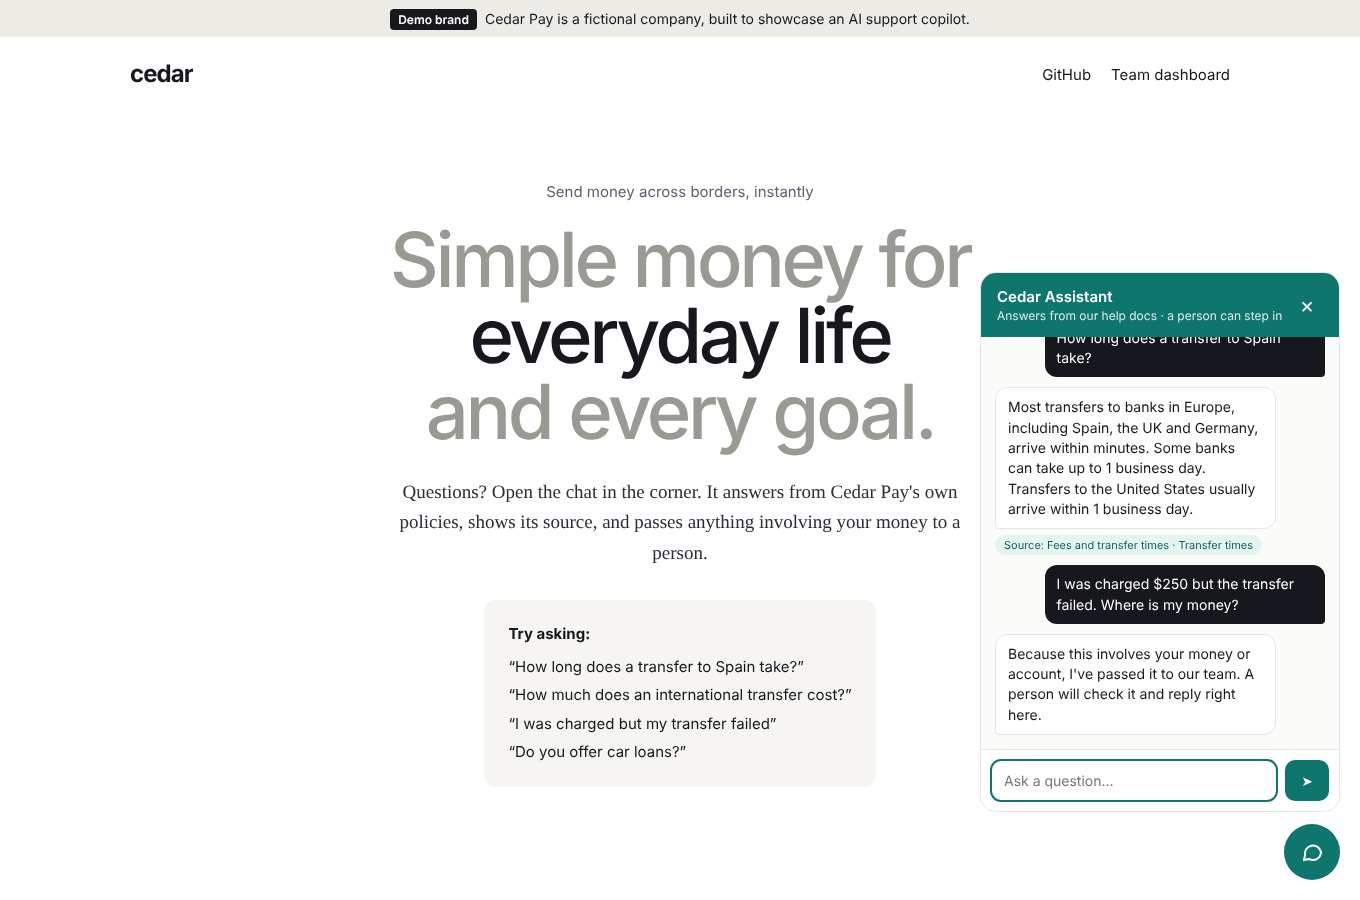
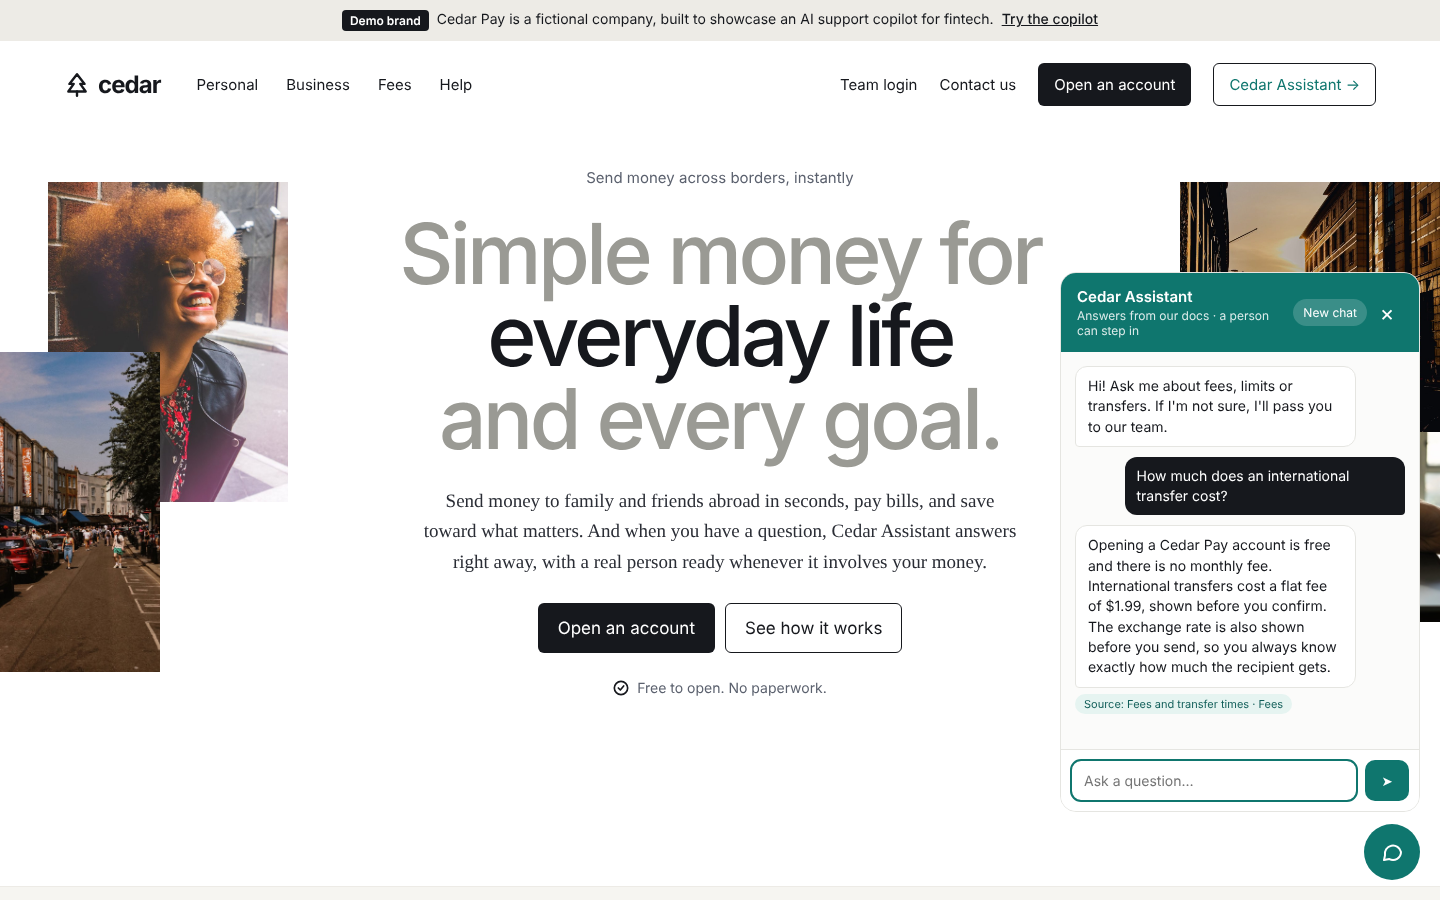
Use the designed Cedar Pay page as the live home page
- Photo hero, product tabs and features from the design, now with the
  real chat widget instead of a picture of one
- 'Cedar Assistant', 'Help', 'Support' and 'Try the copilot' open the chat
  (widget exposes window.CedarWidget.open())
- 'Team login' goes to the dashboard; GitHub link in the footer
- Photos served as static files (Nappy CC0, Pexels licence)

diff --git a/core/templates/core/home.html b/core/templates/core/home.html
@@ -1,0 +1,210 @@
+{% load static %}<!DOCTYPE html>
+<html lang="en"><head><meta charset="utf-8"><meta name="viewport" content="width=device-width, initial-scale=1">
+<title>Cedar Pay – Simple money for everyday life</title>
+<link rel="preconnect" href="https://fonts.googleapis.com">
+<link href="https://fonts.googleapis.com/css2?family=Inter:wght@400;500;600;700&family=Source+Serif+4:opsz,wght@8..60,400;8..60,500&display=swap" rel="stylesheet">
+<style>body{margin:0}a{color:#16181D}a:hover{color:#0F766E}#view-app,#view-ai{position:absolute;inset:0}</style>
+</head><body>
+
+<div style="background: #FFFFFF; font-family: Inter, system-ui, sans-serif; color: #16181D">
+
+<div style="background: #EDEBE6; padding: 10px 24px; display: flex; flex-wrap: wrap; justify-content: center; gap: 8px; font-size: 14px">
+<span style="background: #16181D; color: #FFFFFF; font-size: 12px; font-weight: 600; padding: 3px 8px; border-radius: 4px">Demo brand</span>
+<span>Cedar Pay is a fictional company, built to showcase an AI support copilot for fintech.</span>
+<a href="#" data-open-chat style="color: #16181D; font-weight: 500">Try the copilot</a>
+</div>
+
+<header style="max-width: 1360px; margin: 0 auto; padding: 22px 24px; box-sizing: border-box; display: flex; flex-wrap: wrap; gap: 20px; justify-content: space-between; align-items: center">
+<div style="display: flex; flex-wrap: wrap; align-items: center; gap: 36px">
+<div style="display: flex; align-items: center; gap: 8px">
+<svg aria-hidden="true" width="26" height="26" viewBox="0 0 24 24" fill="none" stroke="#16181D" stroke-width="2.2" stroke-linecap="round" stroke-linejoin="round"><path d="M12 2l7 9h-4l5 7H4l5-7H5z"></path><path d="M12 18v4"></path></svg>
+<span style="font-size: 24px; font-weight: 700; letter-spacing: -0.04em">cedar</span>
+</div>
+<nav aria-label="Main" style="display: flex; flex-wrap: wrap; gap: 28px; font-size: 15px">
+<a href="#product" style="text-decoration: none">Personal</a>
+<a href="#product" style="text-decoration: none">Business</a>
+<a href="#features" style="text-decoration: none">Fees</a>
+<a href="#" data-open-chat style="text-decoration: none">Help</a>
+</nav>
+</div>
+<div style="display: flex; flex-wrap: wrap; gap: 22px; align-items: center; font-size: 15px">
+<a href="{% url 'dashboard' %}" style="text-decoration: none">Team login</a>
+<a href="#" style="text-decoration: none">Contact us</a>
+<a href="#" style="background: #16181D; color: #FFFFFF; text-decoration: none; padding: 12px 16px; border-radius: 6px">Open an account</a>
+<a href="#" data-open-chat style="border: 1px solid #16181D; text-decoration: none; padding: 11px 15px; border-radius: 6px">Cedar Assistant →</a>
+</div>
+</header>
+
+<section style="position: relative; border-bottom: 1px solid #EDEBE6">
+<div style="max-width: 1440px; margin: 0 auto; padding: 40px 0 190px; display: flex; flex-wrap: wrap; gap: 24px; align-items: center">
+
+<div style="flex: 1 1 260px; display: flex; flex-direction: column; gap: 0; position: relative; min-height: 500px">
+<img src="{% static 'site/img/photo1.jpg' %}" alt="A smiling woman with an afro and glasses on a city street" style="margin-left: 48px; width: 240px; height: 320px; object-fit: cover; object-position: 56% 30%; display: block">
+<img src="{% static 'site/img/photo2.jpg' %}" alt="A busy market street with shop awnings and shoppers on a sunny day" style="margin-top: -150px; width: 160px; height: 320px; object-fit: cover; object-position: 45% 55%; display: block; position: relative">
+</div>
+
+<div style="flex: 3 1 560px; min-width: 0; display: flex; flex-direction: column; align-items: center; text-align: center; gap: 26px; padding: 0 24px">
+<span style="font-size: 15px; color: #5B616E">Send money across borders, instantly</span>
+<h1 style="margin: 0; font-size: 84px; line-height: 0.98; letter-spacing: -0.045em; font-weight: 500">
+<span style="color: #9A9A94; display: block">Simple money for</span>
+<span style="color: #16181D; display: block">everyday life</span>
+<span style="color: #9A9A94; display: block">and every goal.</span>
+</h1>
+<p style="margin: 0; max-width: 600px; font-family: 'Source Serif 4', Georgia, serif; font-size: 19px; line-height: 1.6; color: #2A2D35">Send money to family and friends abroad in seconds, pay bills, and save toward what matters. And when you have a question, Cedar Assistant answers right away, with a real person ready whenever it involves your money.</p>
+<div style="display: flex; flex-wrap: wrap; gap: 10px; justify-content: center">
+<a href="#" style="background: #16181D; color: #FFFFFF; text-decoration: none; padding: 15px 20px; border-radius: 6px; font-size: 17px">Open an account</a>
+<a href="#product" style="border: 1px solid #16181D; text-decoration: none; padding: 14px 19px; border-radius: 6px; font-size: 17px">See how it works</a>
+</div>
+<span style="display: flex; align-items: center; gap: 8px; font-size: 14px; color: #5B616E"><svg aria-hidden="true" width="16" height="16" viewBox="0 0 24 24" fill="none" stroke="#16181D" stroke-width="2.5" stroke-linecap="round" stroke-linejoin="round"><circle cx="12" cy="12" r="10"></circle><path d="M8 12l3 3 5-6"></path></svg>Free to open. No paperwork.</span>
+</div>
+
+<div style="flex: 1 1 260px; display: flex; flex-direction: column; align-items: flex-end; min-height: 500px">
+<img src="{% static 'site/img/photo3.jpg' %}" alt="A city street at golden hour with a red double-decker bus" style="width: 260px; height: 250px; object-fit: cover; object-position: 50% 50%; display: block">
+<img src="{% static 'site/img/photo4.jpg' %}" alt="A hand holding a bank card over a laptop by a sunlit window" style="width: 170px; height: 190px; object-fit: cover; object-position: 60% 50%; display: block">
+</div>
+</div>
+
+</section>
+
+<section id="product" style="background: #F6F5F1">
+<div style="max-width: 1280px; margin: 0 auto; padding: 88px 24px; box-sizing: border-box; display: flex; flex-direction: column; gap: 32px">
+<h2 style="margin: 0; font-size: 34px; font-weight: 500; letter-spacing: -0.03em"><span style="color: #9A9A94">One app,</span> everything your money needs</h2>
+<div>
+<div role="tablist" aria-label="Product views" style="display: grid; grid-template-columns: repeat(2, minmax(0, 1fr)); border: 1px solid #DCDBD5; border-bottom: none; background: #FFFFFF">
+<button type="button" role="tab" id="tab-app" aria-selected="true">The Cedar app</button>
+<button type="button" role="tab" id="tab-ai" aria-selected="false">Cedar Assistant</button>
+</div>
+<div style="position: relative; height: 640px; overflow: hidden; border: 1px solid #DCDBD5; background: #C9A77C">
+<img src="{% static 'site/img/wall.jpg' %}" alt="" aria-hidden="true" style="position: absolute; inset: 0; width: 100%; height: 100%; object-fit: cover; display: block">
+
+<div id="view-app">
+<div role="img" aria-label="The Cedar Pay web app: balance, recent activity and a send money form" style="position: absolute; left: 5%; top: 48px; width: 66%; height: 560px; background: rgba(255,255,255,0.9); border: 1px solid rgba(255,255,255,0.7); border-radius: 14px; overflow: hidden; display: flex; font-size: 12px; color: #16181D">
+<div style="width: 52px; background: rgba(240,238,232,0.9); display: flex; flex-direction: column; align-items: center; gap: 18px; padding-top: 18px">
+<svg aria-hidden="true" width="20" height="20" viewBox="0 0 24 24" fill="none" stroke="#16181D" stroke-width="2.2" stroke-linecap="round" stroke-linejoin="round"><path d="M12 2l7 9h-4l5 7H4l5-7H5z"></path><path d="M12 18v4"></path></svg>
+<div style="width: 18px; height: 18px; border-radius: 5px; background: #16181D"></div>
+<div style="width: 18px; height: 18px; border-radius: 5px; background: #C9C7BF"></div>
+<div style="width: 18px; height: 18px; border-radius: 5px; background: #C9C7BF"></div>
+<div style="width: 18px; height: 18px; border-radius: 5px; background: #C9C7BF"></div>
+</div>
+<div style="flex: 1; padding: 22px; display: flex; flex-direction: column; gap: 16px; min-width: 0">
+<div style="display: flex; justify-content: space-between; align-items: center"><span style="font-size: 15px; font-weight: 600">Good morning, Sam</span><span style="color: #5B616E">Wed 12 Nov</span></div>
+<div style="display: grid; grid-template-columns: repeat(3, minmax(0, 1fr)); gap: 10px">
+<div style="background: #16181D; color: #FFFFFF; border-radius: 10px; padding: 14px; display: flex; flex-direction: column; gap: 4px"><span style="color: #B4B2A9">USD balance</span><span style="font-size: 20px; font-weight: 700">$2,485.00</span></div>
+<div style="background: #FFFFFF; border: 1px solid #E5E5E1; border-radius: 10px; padding: 14px; display: flex; flex-direction: column; gap: 4px"><span style="color: #5B616E">EUR balance</span><span style="font-size: 20px; font-weight: 700">€640.20</span></div>
+<div style="background: #FFFFFF; border: 1px solid #E5E5E1; border-radius: 10px; padding: 14px; display: flex; flex-direction: column; gap: 4px"><span style="color: #5B616E">Savings goal</span><span style="font-size: 20px; font-weight: 700">$1,200</span><div style="height: 5px; background: #EEF0F3; border-radius: 999px"><div style="width: 48%; height: 5px; background: #0F766E; border-radius: 999px"></div></div></div>
+</div>
+<div style="font-weight: 600; font-size: 13px; padding-top: 4px">Recent activity</div>
+<div style="display: flex; flex-direction: column; background: #FFFFFF; border: 1px solid #E5E5E1; border-radius: 10px">
+<div style="display: flex; justify-content: space-between; align-items: center; padding: 11px 14px; border-bottom: 1px solid #F0F0EC"><div style="display: flex; gap: 10px; align-items: center"><span style="width: 26px; height: 26px; border-radius: 50%; background: #E7EFEC; color: #115E59; font-weight: 700; font-size: 11px; display: flex; align-items: center; justify-content: center">ML</span><div style="display: flex; flex-direction: column"><span style="font-weight: 600">Maria Lopez · Spain</span><span style="color: #5B616E">Sent · 9:41am</span></div></div><span style="font-weight: 600">−$250.00</span></div>
+<div style="display: flex; justify-content: space-between; align-items: center; padding: 11px 14px; border-bottom: 1px solid #F0F0EC"><div style="display: flex; gap: 10px; align-items: center"><span style="width: 26px; height: 26px; border-radius: 50%; background: #FAEEDA; color: #633806; font-weight: 700; font-size: 11px; display: flex; align-items: center; justify-content: center">EB</span><div style="display: flex; flex-direction: column"><span style="font-weight: 600">Electricity bill</span><span style="color: #5B616E">Bills · Yesterday</span></div></div><span style="font-weight: 600">−$100.00</span></div>
+<div style="display: flex; justify-content: space-between; align-items: center; padding: 11px 14px; border-bottom: 1px solid #F0F0EC"><div style="display: flex; gap: 10px; align-items: center"><span style="width: 26px; height: 26px; border-radius: 50%; background: #EEEDFE; color: #3C3489; font-weight: 700; font-size: 11px; display: flex; align-items: center; justify-content: center">JO</span><div style="display: flex; flex-direction: column"><span style="font-weight: 600">James Owen · UK</span><span style="color: #5B616E">Received · Mon</span></div></div><span style="font-weight: 600; color: #0F766E">+£180.00</span></div>
+<div style="display: flex; justify-content: space-between; align-items: center; padding: 11px 14px"><div style="display: flex; gap: 10px; align-items: center"><span style="width: 26px; height: 26px; border-radius: 50%; background: #F1EFE8; color: #444441; font-weight: 700; font-size: 11px; display: flex; align-items: center; justify-content: center">SA</span><div style="display: flex; flex-direction: column"><span style="font-weight: 600">Salary</span><span style="color: #5B616E">Received · 1 Nov</span></div></div><span style="font-weight: 600; color: #0F766E">+$3,500.00</span></div>
+</div>
+</div>
+<div style="width: 34%; border-left: 1px solid #E5E5E1; padding: 22px; display: flex; flex-direction: column; gap: 12px; background: rgba(251,251,250,0.9)">
+<span style="font-size: 15px; font-weight: 600">Send money</span>
+<div style="display: flex; flex-direction: column; gap: 4px"><span style="color: #5B616E">To</span><div style="border: 1px solid #DCDBD5; border-radius: 8px; padding: 10px; background: #FFFFFF; font-weight: 500">Maria Lopez · ES</div></div>
+<div style="display: flex; flex-direction: column; gap: 4px"><span style="color: #5B616E">You send</span><div style="border: 1px solid #DCDBD5; border-radius: 8px; padding: 10px; background: #FFFFFF; display: flex; justify-content: space-between"><span style="font-weight: 600; font-size: 15px">250.00</span><span>USD</span></div></div>
+<div style="display: flex; flex-direction: column; gap: 4px"><span style="color: #5B616E">Maria gets</span><div style="border: 1px solid #DCDBD5; border-radius: 8px; padding: 10px; background: #FFFFFF; display: flex; justify-content: space-between"><span style="font-weight: 600; font-size: 15px">[AMOUNT]</span><span>EUR</span></div></div>
+<div style="display: flex; justify-content: space-between; color: #5B616E"><span>Fee</span><span>[FEE]</span></div>
+<div style="display: flex; justify-content: space-between; color: #5B616E"><span>Arrives</span><span>In minutes</span></div>
+<div style="margin-top: auto; background: #16181D; color: #FFFFFF; border-radius: 8px; padding: 12px; text-align: center; font-weight: 500">Send $250.00</div>
+</div>
+</div>
+<div role="img" aria-label="Cedar Assistant chat answering a question about transfer times" style="position: absolute; right: 4%; top: 120px; width: 330px; height: 500px; background: #FFFFFF; border-radius: 16px; overflow: hidden; display: flex; flex-direction: column; font-size: 13px; color: #16181D">
+<div style="display: flex; justify-content: space-between; align-items: center; padding: 14px 16px; border-bottom: 1px solid #F0F0EC"><div style="display: flex; gap: 8px; align-items: center"><svg aria-hidden="true" width="18" height="18" viewBox="0 0 24 24" fill="none" stroke="#16181D" stroke-width="2.2" stroke-linecap="round" stroke-linejoin="round"><path d="M12 2l7 9h-4l5 7H4l5-7H5z"></path><path d="M12 18v4"></path></svg><span style="font-weight: 600">Cedar Assistant</span></div><span style="color: #5B616E">×</span></div>
+<div style="flex: 1; padding: 14px; display: flex; flex-direction: column; gap: 10px">
+<div style="align-self: flex-start; background: #F3F2EE; border-radius: 12px; padding: 10px 12px">Hi Sam! How can I help?</div>
+<div style="align-self: flex-end; background: #16181D; color: #FFFFFF; border-radius: 12px; padding: 10px 12px; max-width: 80%; line-height: 1.45">How long does a transfer to Spain take?</div>
+<div style="align-self: flex-start; background: #F3F2EE; border-radius: 12px; padding: 10px 12px; max-width: 85%; line-height: 1.45">Most transfers to Spain arrive within minutes. Some banks take up to 1 business day.</div>
+<span style="align-self: flex-start; background: #E6F4F1; color: #115E59; border-radius: 999px; padding: 4px 10px; font-size: 11px; font-weight: 500">Source: Transfer times · §1</span>
+<div style="align-self: flex-end; background: #16181D; color: #FFFFFF; border-radius: 12px; padding: 10px 12px">Perfect, thanks!</div>
+</div>
+<div style="margin: 12px; border: 1px solid #DCDBD5; border-radius: 10px; padding: 11px 12px; color: #5B616E">Ask a question…</div>
+</div>
+</div>
+
+<div id="view-ai" style="display:none">
+<div role="img" aria-label="The support team's inbox with an AI-drafted reply" style="position: absolute; left: 5%; top: 48px; width: 70%; height: 560px; background: rgba(255,255,255,0.9); border-radius: 14px; overflow: hidden; display: flex; font-size: 12px; color: #16181D">
+<div style="width: 30%; border-right: 1px solid #E5E5E1; display: flex; flex-direction: column">
+<div style="padding: 16px; font-weight: 600; font-size: 14px; border-bottom: 1px solid #F0F0EC">Your inbox · 4 open</div>
+<div style="padding: 12px 16px; background: #F3F2EE; display: flex; flex-direction: column; gap: 3px"><span style="font-weight: 600">Sam Carter</span><span style="color: #5B616E">Charged but transfer failed · 2m</span></div>
+<div style="padding: 12px 16px; display: flex; flex-direction: column; gap: 3px; border-bottom: 1px solid #F0F0EC"><span style="font-weight: 600">Lena Fischer</span><span style="color: #5B616E">Card declined abroad · 9m</span></div>
+<div style="padding: 12px 16px; display: flex; flex-direction: column; gap: 3px; border-bottom: 1px solid #F0F0EC"><span style="font-weight: 600">Carlos Ruiz</span><span style="color: #5B616E">New device login · 24m</span></div>
+<div style="padding: 12px 16px; display: flex; flex-direction: column; gap: 3px"><span style="font-weight: 600">Priya Shah</span><span style="color: #5B616E">Raise my limit · 1h</span></div>
+</div>
+<div style="flex: 1; padding: 18px; display: flex; flex-direction: column; gap: 10px; min-width: 0">
+<span style="font-size: 14px; font-weight: 600">Sam Carter</span>
+<div style="background: #FFFFFF; border: 1px solid #E5E5E1; border-radius: 10px; padding: 10px 12px; line-height: 1.5">I was charged $250 but the transfer to Spain failed. Where is my money?</div>
+<div style="background: #F3F2EE; border-radius: 10px; padding: 10px 12px; line-height: 1.5">Sorry about this. Because it involves your money, I'm getting someone from the team for you.</div>
+<span style="color: #5B616E; font-size: 11px">Cedar Assistant handed this to the team · confidence 0.41</span>
+<div style="margin-top: auto; border: 1px solid #DCDBD5; border-radius: 10px; padding: 12px; color: #5B616E; background: #FFFFFF">Reply…</div>
+</div>
+<div style="width: 32%; border-left: 1px solid #E5E5E1; padding: 18px; display: flex; flex-direction: column; gap: 10px; background: rgba(251,251,250,0.9)">
+<span style="font-size: 14px; font-weight: 600">Copilot</span>
+<span style="color: #5B616E">What happened</span>
+<span style="line-height: 1.5">The transfer was rejected by the receiving bank. Failed transfers are refunded within 24 hours.</span>
+<span style="color: #5B616E; padding-top: 6px">Draft reply</span>
+<div style="background: #FFFFFF; border: 1px solid #E5E5E1; border-radius: 10px; padding: 10px; line-height: 1.5">Hi Sam, sorry for the worry. Maria's bank rejected the transfer, so your $250 will be back in your wallet within 24 hours. I'll confirm once it's done.</div>
+<span style="align-self: flex-start; background: #E6F4F1; color: #115E59; border-radius: 999px; padding: 4px 10px; font-size: 11px; font-weight: 500">2 sources · Reversals policy</span>
+<div style="margin-top: auto; background: #16181D; color: #FFFFFF; border-radius: 8px; padding: 11px; text-align: center; font-weight: 500">Approve and send</div>
+</div>
+</div>
+<div role="img" aria-label="The customer's chat showing the handoff to a person" style="position: absolute; right: 4%; top: 150px; width: 300px; background: #FFFFFF; border-radius: 16px; overflow: hidden; display: flex; flex-direction: column; font-size: 13px; color: #16181D">
+<div style="display: flex; gap: 8px; align-items: center; padding: 14px 16px; border-bottom: 1px solid #F0F0EC"><svg aria-hidden="true" width="18" height="18" viewBox="0 0 24 24" fill="none" stroke="#16181D" stroke-width="2.2" stroke-linecap="round" stroke-linejoin="round"><path d="M12 2l7 9h-4l5 7H4l5-7H5z"></path><path d="M12 18v4"></path></svg><span style="font-weight: 600">Cedar Assistant</span></div>
+<div style="padding: 14px; display: flex; flex-direction: column; gap: 10px">
+<div style="align-self: flex-end; background: #16181D; color: #FFFFFF; border-radius: 12px; padding: 10px 12px; max-width: 85%; line-height: 1.45">I was charged $250 but the transfer failed. Where is my money?</div>
+<div style="align-self: flex-start; background: #F3F2EE; border-radius: 12px; padding: 10px 12px; max-width: 85%; line-height: 1.45">Because it involves your money, I'm getting someone from the team for you.</div>
+<span style="align-self: center; color: #5B616E; font-size: 11px">Tom from Cedar joined the chat</span>
+</div>
+<div style="margin: 0 12px 12px; border: 1px solid #DCDBD5; border-radius: 10px; padding: 11px 12px; color: #5B616E">Ask a question…</div>
+</div>
+</div>
+</div>
+</div>
+</div>
+</section>
+
+<section id="features">
+<div style="max-width: 1200px; margin: 0 auto; padding: 88px 24px; box-sizing: border-box; display: grid; grid-template-columns: repeat(auto-fit, minmax(240px, 1fr)); gap: 40px">
+<div style="display: flex; flex-direction: column; gap: 10px; border-top: 1px solid #16181D; padding-top: 18px"><h3 style="margin: 0; font-size: 20px; font-weight: 500">Instant transfers</h3><p style="margin: 0; font-family: 'Source Serif 4', Georgia, serif; font-size: 17px; line-height: 1.6; color: #3F4450">Money arrives in seconds, with low, clear fees shown before you send.</p></div>
+<div style="display: flex; flex-direction: column; gap: 10px; border-top: 1px solid #16181D; padding-top: 18px"><h3 style="margin: 0; font-size: 20px; font-weight: 500">Savings goals</h3><p style="margin: 0; font-family: 'Source Serif 4', Georgia, serif; font-size: 17px; line-height: 1.6; color: #3F4450">Set a goal, lock it if you like, and earn [RATE]% a year.</p></div>
+<div style="display: flex; flex-direction: column; gap: 10px; border-top: 1px solid #16181D; padding-top: 18px"><h3 style="margin: 0; font-size: 20px; font-weight: 500">Card controls</h3><p style="margin: 0; font-family: 'Source Serif 4', Georgia, serif; font-size: 17px; line-height: 1.6; color: #3F4450">Freeze, unfreeze or set limits on your card from the app.</p></div>
+<div style="display: flex; flex-direction: column; gap: 10px; border-top: 1px solid #16181D; padding-top: 18px"><h3 style="margin: 0; font-size: 20px; font-weight: 500">Help in seconds</h3><p style="margin: 0; font-family: 'Source Serif 4', Georgia, serif; font-size: 17px; line-height: 1.6; color: #3F4450">Cedar Assistant answers from our official policies and shows its source.</p></div>
+</div>
+</section>
+
+<section style="padding: 0 24px 88px">
+<div style="max-width: 1152px; margin: 0 auto; background: #16181D; color: #FFFFFF; padding: 56px; box-sizing: border-box; display: flex; flex-wrap: wrap; gap: 24px; justify-content: space-between; align-items: center">
+<h2 style="margin: 0; font-size: 40px; font-weight: 500; letter-spacing: -0.03em; line-height: 1.1"><span style="color: #9A9A94">Your money,</span><br>made simple.</h2>
+<a href="#" style="background: #FFFFFF; color: #16181D; text-decoration: none; padding: 15px 22px; border-radius: 6px; font-size: 17px">Open an account</a>
+</div>
+</section>
+
+<footer style="border-top: 1px solid #EDEBE6">
+<div style="max-width: 1200px; margin: 0 auto; padding: 32px 24px; box-sizing: border-box; display: flex; flex-wrap: wrap; gap: 16px; justify-content: space-between; font-size: 14px; color: #5B616E">
+<span>© 2026 Cedar Pay · demo brand for a portfolio project · Licensed by [REGULATOR]</span>
+<div style="display: flex; flex-wrap: wrap; gap: 20px"><a href="#" style="color: #4A505C; text-decoration: none">Privacy</a><a href="#" style="color: #4A505C; text-decoration: none">Terms</a><a href="#" data-open-chat style="color: #4A505C; text-decoration: none">Support</a><a href="https://github.com/Pennymic81/cedar-support-copilot" style="color: #4A505C; text-decoration: none">GitHub</a></div>
+</div>
+</footer>
+</div>
+<script>
+(function(){
+var on='text-align:left;padding:22px 20px;border:none;font-family:inherit;font-size:20px;cursor:pointer;background:#FFFFFF;color:#16181D;border-top:3px solid #0F766E;';
+var off='text-align:left;padding:22px 20px;border:none;font-family:inherit;font-size:20px;cursor:pointer;background:#F6F5F1;color:#6B6B66;border-top:3px solid transparent;';
+var a=document.getElementById('tab-app'),b=document.getElementById('tab-ai'),va=document.getElementById('view-app'),vb=document.getElementById('view-ai');
+function show(ai){a.style.cssText=ai?off:on;b.style.cssText=(ai?on:off)+'border-left:1px solid #DCDBD5;';va.style.display=ai?'none':'block';vb.style.display=ai?'block':'none';a.setAttribute('aria-selected',!ai);b.setAttribute('aria-selected',ai);}
+a.onclick=function(){show(false)};b.onclick=function(){show(true)};show(false);
+})();
+</script>{% if widget_key %}
+<script src="{% static 'widget/cedar-widget.js' %}" data-widget-key="{{ widget_key }}" data-title="Cedar Assistant" defer></script>
+{% endif %}
+<script>
+document.addEventListener("click", function (e) {
+  var link = e.target.closest("[data-open-chat]");
+  if (!link) return;
+  e.preventDefault();
+  if (window.CedarWidget) window.CedarWidget.open();
+});
+</script>
+</body></html>

diff --git a/support/static/widget/cedar-widget.js b/support/static/widget/cedar-widget.js
@@ -218,6 +218,8 @@
     }
   }
   launcher.addEventListener("click", function () { toggle(!panel.classList.contains("open")); });
+  // Lets the host page open the chat from its own buttons: window.CedarWidget.open()
+  window.CedarWidget = { open: function () { toggle(true); }, close: function () { toggle(false); } };
   root.querySelector(".close").addEventListener("click", function () { toggle(false); });
   root.querySelector(".new").addEventListener("click", function () {
     state.token = ""; save(""); state.seen = 0; stopPolling();

diff --git a/core/views.py b/core/views.py
@@ -21,7 +21,7 @@ def demo(request):
     from .models import Business
 
     business = Business.objects.filter(name="Cedar Pay").first()
-    return render(request, "core/demo.html", {"widget_key": business.widget_key if business else ""})
+    return render(request, "core/home.html", {"widget_key": business.widget_key if business else ""})
 
 
 def dashboard(request):
